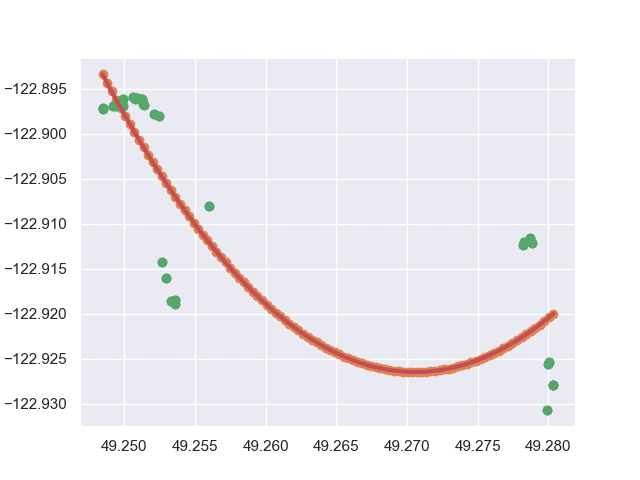
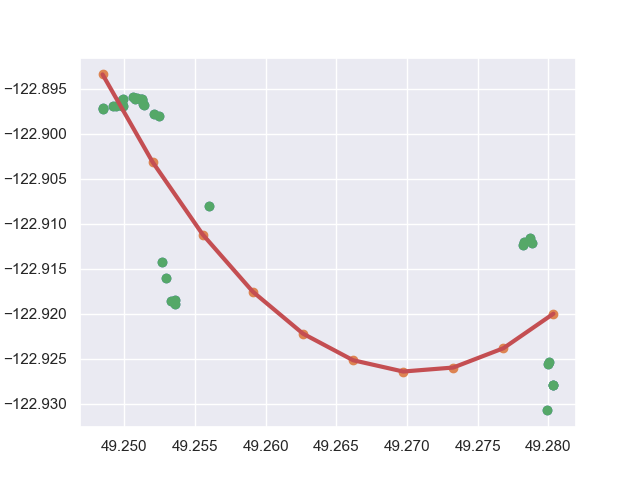
commiting

diff --git a/_map.html b/_map.html
@@ -1,0 +1,39 @@
+<head>
+    <script src="https://cdnjs.cloudflare.com/ajax/libs/leaflet/0.7.3/leaflet.js"></script>
+    <link rel="stylesheet" href="https://cdnjs.cloudflare.com/ajax/libs/leaflet/0.7.3/leaflet.css" />
+  <style>
+    #map0ffcd67947804cf880f455175a8f32a5 {
+      height:100%;
+    }
+  </style> 
+</head>
+<body>
+  <div id="map0ffcd67947804cf880f455175a8f32a5"></div>
+<script text="text/javascript">
+var map = L.map('map0ffcd67947804cf880f455175a8f32a5');
+L.tileLayer(
+  "http://{s}.tile.openstreetmap.org/{z}/{x}/{y}.png",
+  {maxZoom:19, attribution: '<a href="https://github.com/jwass/mplleaflet">mplleaflet</a> | Map data (c) <a href="http://openstreetmap.org">OpenStreetMap</a> contributors'}).addTo(map);
+var gjData = {"type": "FeatureCollection", "features": [{"type": "Feature", "geometry": {"type": "LineString", "coordinates": [[-123.0047336, 49.266707899557034], [-123.0039381, 49.251221600152384], [-123.00038899999998, 49.2488066], [-123.0001406, 49.2537233], [-123.00010870000001, 49.2518042], [-122.9994277, 49.2497468], [-122.99699299999999, 49.2808343], [-122.98618229999998, 49.23015060006971], [-122.96966840000002, 49.21918449998558], [-122.95731200000002, 49.211023000031076], [-122.95167520000001, 49.21867770008941], [-122.9385781, 49.2150615], [-122.9282604, 49.21907], [-122.9281568, 49.2198196], [-122.9190481, 49.2789791], [-122.90624720000001, 49.231409899999996], [-122.896771, 49.2497307], [-122.8961068, 49.250189299999995], [-122.8958192, 49.2505823]]}, "properties": {"color": "#C44E52", "weight": 5.0, "opacity": 1}}, {"type": "Feature", "geometry": {"type": "Point", "coordinates": [-122.95731200000002, 49.211023]}, "properties": {"html": "<svg width=\"11px\" height=\"11px\" viewBox=\"-5.5 -5.5 11.0 11.0\" xmlns=\"http://www.w3.org/2000/svg\" version=\"1.1\">  <path d=\"M 0.0 4.166666666666667 C 1.105012916666667 4.166666666666667 2.1649161282702227 3.727640381617674 2.9462782549439486 2.9462782549439486 C 3.727640381617674 2.1649161282702227 4.166666666666667 1.105012916666667 4.166666666666667 -0.0 C 4.166666666666667 -1.105012916666667 3.727640381617674 -2.1649161282702227 2.9462782549439486 -2.9462782549439486 C 2.1649161282702227 -3.727640381617674 1.105012916666667 -4.166666666666667 0.0 -4.166666666666667 C -1.105012916666667 -4.166666666666667 -2.1649161282702227 -3.727640381617674 -2.9462782549439486 -2.9462782549439486 C -3.727640381617674 -2.1649161282702227 -4.166666666666667 -1.105012916666667 -4.166666666666667 -0.0 C -4.166666666666667 1.105012916666667 -3.727640381617674 2.1649161282702227 -2.9462782549439486 2.9462782549439486 C -2.1649161282702227 3.727640381617674 -1.105012916666667 4.166666666666667 0.0 4.166666666666667 Z\" stroke=\"#4C72B0\" stroke-width=\"1.0\" stroke-opacity=\"None\" fill=\"#4C72B0\" fill-opacity=\"None\" /></svg>", "anchor_x": 5.5, "anchor_y": 5.5}}, {"type": "Feature", "geometry": {"type": "Point", "coordinates": [-122.8961068, 49.250189299999995]}, "properties": {"html": "<svg width=\"11px\" height=\"11px\" viewBox=\"-5.5 -5.5 11.0 11.0\" xmlns=\"http://www.w3.org/2000/svg\" version=\"1.1\">  <path d=\"M 0.0 4.166666666666667 C 1.105012916666667 4.166666666666667 2.1649161282702227 3.727640381617674 2.9462782549439486 2.9462782549439486 C 3.727640381617674 2.1649161282702227 4.166666666666667 1.105012916666667 4.166666666666667 -0.0 C 4.166666666666667 -1.105012916666667 3.727640381617674 -2.1649161282702227 2.9462782549439486 -2.9462782549439486 C 2.1649161282702227 -3.727640381617674 1.105012916666667 -4.166666666666667 0.0 -4.166666666666667 C -1.105012916666667 -4.166666666666667 -2.1649161282702227 -3.727640381617674 -2.9462782549439486 -2.9462782549439486 C -3.727640381617674 -2.1649161282702227 -4.166666666666667 -1.105012916666667 -4.166666666666667 -0.0 C -4.166666666666667 1.105012916666667 -3.727640381617674 2.1649161282702227 -2.9462782549439486 2.9462782549439486 C -2.1649161282702227 3.727640381617674 -1.105012916666667 4.166666666666667 0.0 4.166666666666667 Z\" stroke=\"#4C72B0\" stroke-width=\"1.0\" stroke-opacity=\"None\" fill=\"#4C72B0\" fill-opacity=\"None\" /></svg>", "anchor_x": 5.5, "anchor_y": 5.5}}, {"type": "Feature", "geometry": {"type": "Point", "coordinates": [-122.9190481, 49.2789791]}, "properties": {"html": "<svg width=\"11px\" height=\"11px\" viewBox=\"-5.5 -5.5 11.0 11.0\" xmlns=\"http://www.w3.org/2000/svg\" version=\"1.1\">  <path d=\"M 0.0 4.166666666666667 C 1.105012916666667 4.166666666666667 2.1649161282702227 3.727640381617674 2.9462782549439486 2.9462782549439486 C 3.727640381617674 2.1649161282702227 4.166666666666667 1.105012916666667 4.166666666666667 -0.0 C 4.166666666666667 -1.105012916666667 3.727640381617674 -2.1649161282702227 2.9462782549439486 -2.9462782549439486 C 2.1649161282702227 -3.727640381617674 1.105012916666667 -4.166666666666667 0.0 -4.166666666666667 C -1.105012916666667 -4.166666666666667 -2.1649161282702227 -3.727640381617674 -2.9462782549439486 -2.9462782549439486 C -3.727640381617674 -2.1649161282702227 -4.166666666666667 -1.105012916666667 -4.166666666666667 -0.0 C -4.166666666666667 1.105012916666667 -3.727640381617674 2.1649161282702227 -2.9462782549439486 2.9462782549439486 C -2.1649161282702227 3.727640381617674 -1.105012916666667 4.166666666666667 0.0 4.166666666666667 Z\" stroke=\"#4C72B0\" stroke-width=\"1.0\" stroke-opacity=\"None\" fill=\"#4C72B0\" fill-opacity=\"None\" /></svg>", "anchor_x": 5.5, "anchor_y": 5.5}}, {"type": "Feature", "geometry": {"type": "Point", "coordinates": [-122.95731200000002, 49.211023]}, "properties": {"html": "<svg width=\"11px\" height=\"11px\" viewBox=\"-5.5 -5.5 11.0 11.0\" xmlns=\"http://www.w3.org/2000/svg\" version=\"1.1\">  <path d=\"M 0.0 4.166666666666667 C 1.105012916666667 4.166666666666667 2.1649161282702227 3.727640381617674 2.9462782549439486 2.9462782549439486 C 3.727640381617674 2.1649161282702227 4.166666666666667 1.105012916666667 4.166666666666667 -0.0 C 4.166666666666667 -1.105012916666667 3.727640381617674 -2.1649161282702227 2.9462782549439486 -2.9462782549439486 C 2.1649161282702227 -3.727640381617674 1.105012916666667 -4.166666666666667 0.0 -4.166666666666667 C -1.105012916666667 -4.166666666666667 -2.1649161282702227 -3.727640381617674 -2.9462782549439486 -2.9462782549439486 C -3.727640381617674 -2.1649161282702227 -4.166666666666667 -1.105012916666667 -4.166666666666667 -0.0 C -4.166666666666667 1.105012916666667 -3.727640381617674 2.1649161282702227 -2.9462782549439486 2.9462782549439486 C -2.1649161282702227 3.727640381617674 -1.105012916666667 4.166666666666667 0.0 4.166666666666667 Z\" stroke=\"#DD8452\" stroke-width=\"1.0\" stroke-opacity=\"None\" fill=\"#DD8452\" fill-opacity=\"None\" /></svg>", "anchor_x": 5.5, "anchor_y": 5.5}}, {"type": "Feature", "geometry": {"type": "Point", "coordinates": [-122.9385781, 49.2150615]}, "properties": {"html": "<svg width=\"11px\" height=\"11px\" viewBox=\"-5.5 -5.5 11.0 11.0\" xmlns=\"http://www.w3.org/2000/svg\" version=\"1.1\">  <path d=\"M 0.0 4.166666666666667 C 1.105012916666667 4.166666666666667 2.1649161282702227 3.727640381617674 2.9462782549439486 2.9462782549439486 C 3.727640381617674 2.1649161282702227 4.166666666666667 1.105012916666667 4.166666666666667 -0.0 C 4.166666666666667 -1.105012916666667 3.727640381617674 -2.1649161282702227 2.9462782549439486 -2.9462782549439486 C 2.1649161282702227 -3.727640381617674 1.105012916666667 -4.166666666666667 0.0 -4.166666666666667 C -1.105012916666667 -4.166666666666667 -2.1649161282702227 -3.727640381617674 -2.9462782549439486 -2.9462782549439486 C -3.727640381617674 -2.1649161282702227 -4.166666666666667 -1.105012916666667 -4.166666666666667 -0.0 C -4.166666666666667 1.105012916666667 -3.727640381617674 2.1649161282702227 -2.9462782549439486 2.9462782549439486 C -2.1649161282702227 3.727640381617674 -1.105012916666667 4.166666666666667 0.0 4.166666666666667 Z\" stroke=\"#DD8452\" stroke-width=\"1.0\" stroke-opacity=\"None\" fill=\"#DD8452\" fill-opacity=\"None\" /></svg>", "anchor_x": 5.5, "anchor_y": 5.5}}, {"type": "Feature", "geometry": {"type": "Point", "coordinates": [-122.95167520000001, 49.2186777]}, "properties": {"html": "<svg width=\"11px\" height=\"11px\" viewBox=\"-5.5 -5.5 11.0 11.0\" xmlns=\"http://www.w3.org/2000/svg\" version=\"1.1\">  <path d=\"M 0.0 4.166666666666667 C 1.105012916666667 4.166666666666667 2.1649161282702227 3.727640381617674 2.9462782549439486 2.9462782549439486 C 3.727640381617674 2.1649161282702227 4.166666666666667 1.105012916666667 4.166666666666667 -0.0 C 4.166666666666667 -1.105012916666667 3.727640381617674 -2.1649161282702227 2.9462782549439486 -2.9462782549439486 C 2.1649161282702227 -3.727640381617674 1.105012916666667 -4.166666666666667 0.0 -4.166666666666667 C -1.105012916666667 -4.166666666666667 -2.1649161282702227 -3.727640381617674 -2.9462782549439486 -2.9462782549439486 C -3.727640381617674 -2.1649161282702227 -4.166666666666667 -1.105012916666667 -4.166666666666667 -0.0 C -4.166666666666667 1.105012916666667 -3.727640381617674 2.1649161282702227 -2.9462782549439486 2.9462782549439486 C -2.1649161282702227 3.727640381617674 -1.105012916666667 4.166666666666667 0.0 4.166666666666667 Z\" stroke=\"#DD8452\" stroke-width=\"1.0\" stroke-opacity=\"None\" fill=\"#DD8452\" fill-opacity=\"None\" /></svg>", "anchor_x": 5.5, "anchor_y": 5.5}}, {"type": "Feature", "geometry": {"type": "Point", "coordinates": [-122.9282604, 49.21907]}, "properties": {"html": "<svg width=\"11px\" height=\"11px\" viewBox=\"-5.5 -5.5 11.0 11.0\" xmlns=\"http://www.w3.org/2000/svg\" version=\"1.1\">  <path d=\"M 0.0 4.166666666666667 C 1.105012916666667 4.166666666666667 2.1649161282702227 3.727640381617674 2.9462782549439486 2.9462782549439486 C 3.727640381617674 2.1649161282702227 4.166666666666667 1.105012916666667 4.166666666666667 -0.0 C 4.166666666666667 -1.105012916666667 3.727640381617674 -2.1649161282702227 2.9462782549439486 -2.9462782549439486 C 2.1649161282702227 -3.727640381617674 1.105012916666667 -4.166666666666667 0.0 -4.166666666666667 C -1.105012916666667 -4.166666666666667 -2.1649161282702227 -3.727640381617674 -2.9462782549439486 -2.9462782549439486 C -3.727640381617674 -2.1649161282702227 -4.166666666666667 -1.105012916666667 -4.166666666666667 -0.0 C -4.166666666666667 1.105012916666667 -3.727640381617674 2.1649161282702227 -2.9462782549439486 2.9462782549439486 C -2.1649161282702227 3.727640381617674 -1.105012916666667 4.166666666666667 0.0 4.166666666666667 Z\" stroke=\"#DD8452\" stroke-width=\"1.0\" stroke-opacity=\"None\" fill=\"#DD8452\" fill-opacity=\"None\" /></svg>", "anchor_x": 5.5, "anchor_y": 5.5}}, {"type": "Feature", "geometry": {"type": "Point", "coordinates": [-122.96966840000002, 49.2191845]}, "properties": {"html": "<svg width=\"11px\" height=\"11px\" viewBox=\"-5.5 -5.5 11.0 11.0\" xmlns=\"http://www.w3.org/2000/svg\" version=\"1.1\">  <path d=\"M 0.0 4.166666666666667 C 1.105012916666667 4.166666666666667 2.1649161282702227 3.727640381617674 2.9462782549439486 2.9462782549439486 C 3.727640381617674 2.1649161282702227 4.166666666666667 1.105012916666667 4.166666666666667 -0.0 C 4.166666666666667 -1.105012916666667 3.727640381617674 -2.1649161282702227 2.9462782549439486 -2.9462782549439486 C 2.1649161282702227 -3.727640381617674 1.105012916666667 -4.166666666666667 0.0 -4.166666666666667 C -1.105012916666667 -4.166666666666667 -2.1649161282702227 -3.727640381617674 -2.9462782549439486 -2.9462782549439486 C -3.727640381617674 -2.1649161282702227 -4.166666666666667 -1.105012916666667 -4.166666666666667 -0.0 C -4.166666666666667 1.105012916666667 -3.727640381617674 2.1649161282702227 -2.9462782549439486 2.9462782549439486 C -2.1649161282702227 3.727640381617674 -1.105012916666667 4.166666666666667 0.0 4.166666666666667 Z\" stroke=\"#DD8452\" stroke-width=\"1.0\" stroke-opacity=\"None\" fill=\"#DD8452\" fill-opacity=\"None\" /></svg>", "anchor_x": 5.5, "anchor_y": 5.5}}, {"type": "Feature", "geometry": {"type": "Point", "coordinates": [-122.9281568, 49.2198196]}, "properties": {"html": "<svg width=\"11px\" height=\"11px\" viewBox=\"-5.5 -5.5 11.0 11.0\" xmlns=\"http://www.w3.org/2000/svg\" version=\"1.1\">  <path d=\"M 0.0 4.166666666666667 C 1.105012916666667 4.166666666666667 2.1649161282702227 3.727640381617674 2.9462782549439486 2.9462782549439486 C 3.727640381617674 2.1649161282702227 4.166666666666667 1.105012916666667 4.166666666666667 -0.0 C 4.166666666666667 -1.105012916666667 3.727640381617674 -2.1649161282702227 2.9462782549439486 -2.9462782549439486 C 2.1649161282702227 -3.727640381617674 1.105012916666667 -4.166666666666667 0.0 -4.166666666666667 C -1.105012916666667 -4.166666666666667 -2.1649161282702227 -3.727640381617674 -2.9462782549439486 -2.9462782549439486 C -3.727640381617674 -2.1649161282702227 -4.166666666666667 -1.105012916666667 -4.166666666666667 -0.0 C -4.166666666666667 1.105012916666667 -3.727640381617674 2.1649161282702227 -2.9462782549439486 2.9462782549439486 C -2.1649161282702227 3.727640381617674 -1.105012916666667 4.166666666666667 0.0 4.166666666666667 Z\" stroke=\"#DD8452\" stroke-width=\"1.0\" stroke-opacity=\"None\" fill=\"#DD8452\" fill-opacity=\"None\" /></svg>", "anchor_x": 5.5, "anchor_y": 5.5}}, {"type": "Feature", "geometry": {"type": "Point", "coordinates": [-122.98618229999998, 49.2301506]}, "properties": {"html": "<svg width=\"11px\" height=\"11px\" viewBox=\"-5.5 -5.5 11.0 11.0\" xmlns=\"http://www.w3.org/2000/svg\" version=\"1.1\">  <path d=\"M 0.0 4.166666666666667 C 1.105012916666667 4.166666666666667 2.1649161282702227 3.727640381617674 2.9462782549439486 2.9462782549439486 C 3.727640381617674 2.1649161282702227 4.166666666666667 1.105012916666667 4.166666666666667 -0.0 C 4.166666666666667 -1.105012916666667 3.727640381617674 -2.1649161282702227 2.9462782549439486 -2.9462782549439486 C 2.1649161282702227 -3.727640381617674 1.105012916666667 -4.166666666666667 0.0 -4.166666666666667 C -1.105012916666667 -4.166666666666667 -2.1649161282702227 -3.727640381617674 -2.9462782549439486 -2.9462782549439486 C -3.727640381617674 -2.1649161282702227 -4.166666666666667 -1.105012916666667 -4.166666666666667 -0.0 C -4.166666666666667 1.105012916666667 -3.727640381617674 2.1649161282702227 -2.9462782549439486 2.9462782549439486 C -2.1649161282702227 3.727640381617674 -1.105012916666667 4.166666666666667 0.0 4.166666666666667 Z\" stroke=\"#DD8452\" stroke-width=\"1.0\" stroke-opacity=\"None\" fill=\"#DD8452\" fill-opacity=\"None\" /></svg>", "anchor_x": 5.5, "anchor_y": 5.5}}, {"type": "Feature", "geometry": {"type": "Point", "coordinates": [-122.90624720000001, 49.231409899999996]}, "properties": {"html": "<svg width=\"11px\" height=\"11px\" viewBox=\"-5.5 -5.5 11.0 11.0\" xmlns=\"http://www.w3.org/2000/svg\" version=\"1.1\">  <path d=\"M 0.0 4.166666666666667 C 1.105012916666667 4.166666666666667 2.1649161282702227 3.727640381617674 2.9462782549439486 2.9462782549439486 C 3.727640381617674 2.1649161282702227 4.166666666666667 1.105012916666667 4.166666666666667 -0.0 C 4.166666666666667 -1.105012916666667 3.727640381617674 -2.1649161282702227 2.9462782549439486 -2.9462782549439486 C 2.1649161282702227 -3.727640381617674 1.105012916666667 -4.166666666666667 0.0 -4.166666666666667 C -1.105012916666667 -4.166666666666667 -2.1649161282702227 -3.727640381617674 -2.9462782549439486 -2.9462782549439486 C -3.727640381617674 -2.1649161282702227 -4.166666666666667 -1.105012916666667 -4.166666666666667 -0.0 C -4.166666666666667 1.105012916666667 -3.727640381617674 2.1649161282702227 -2.9462782549439486 2.9462782549439486 C -2.1649161282702227 3.727640381617674 -1.105012916666667 4.166666666666667 0.0 4.166666666666667 Z\" stroke=\"#DD8452\" stroke-width=\"1.0\" stroke-opacity=\"None\" fill=\"#DD8452\" fill-opacity=\"None\" /></svg>", "anchor_x": 5.5, "anchor_y": 5.5}}, {"type": "Feature", "geometry": {"type": "Point", "coordinates": [-123.00038899999998, 49.2488066]}, "properties": {"html": "<svg width=\"11px\" height=\"11px\" viewBox=\"-5.5 -5.5 11.0 11.0\" xmlns=\"http://www.w3.org/2000/svg\" version=\"1.1\">  <path d=\"M 0.0 4.166666666666667 C 1.105012916666667 4.166666666666667 2.1649161282702227 3.727640381617674 2.9462782549439486 2.9462782549439486 C 3.727640381617674 2.1649161282702227 4.166666666666667 1.105012916666667 4.166666666666667 -0.0 C 4.166666666666667 -1.105012916666667 3.727640381617674 -2.1649161282702227 2.9462782549439486 -2.9462782549439486 C 2.1649161282702227 -3.727640381617674 1.105012916666667 -4.166666666666667 0.0 -4.166666666666667 C -1.105012916666667 -4.166666666666667 -2.1649161282702227 -3.727640381617674 -2.9462782549439486 -2.9462782549439486 C -3.727640381617674 -2.1649161282702227 -4.166666666666667 -1.105012916666667 -4.166666666666667 -0.0 C -4.166666666666667 1.105012916666667 -3.727640381617674 2.1649161282702227 -2.9462782549439486 2.9462782549439486 C -2.1649161282702227 3.727640381617674 -1.105012916666667 4.166666666666667 0.0 4.166666666666667 Z\" stroke=\"#DD8452\" stroke-width=\"1.0\" stroke-opacity=\"None\" fill=\"#DD8452\" fill-opacity=\"None\" /></svg>", "anchor_x": 5.5, "anchor_y": 5.5}}, {"type": "Feature", "geometry": {"type": "Point", "coordinates": [-122.896771, 49.2497307]}, "properties": {"html": "<svg width=\"11px\" height=\"11px\" viewBox=\"-5.5 -5.5 11.0 11.0\" xmlns=\"http://www.w3.org/2000/svg\" version=\"1.1\">  <path d=\"M 0.0 4.166666666666667 C 1.105012916666667 4.166666666666667 2.1649161282702227 3.727640381617674 2.9462782549439486 2.9462782549439486 C 3.727640381617674 2.1649161282702227 4.166666666666667 1.105012916666667 4.166666666666667 -0.0 C 4.166666666666667 -1.105012916666667 3.727640381617674 -2.1649161282702227 2.9462782549439486 -2.9462782549439486 C 2.1649161282702227 -3.727640381617674 1.105012916666667 -4.166666666666667 0.0 -4.166666666666667 C -1.105012916666667 -4.166666666666667 -2.1649161282702227 -3.727640381617674 -2.9462782549439486 -2.9462782549439486 C -3.727640381617674 -2.1649161282702227 -4.166666666666667 -1.105012916666667 -4.166666666666667 -0.0 C -4.166666666666667 1.105012916666667 -3.727640381617674 2.1649161282702227 -2.9462782549439486 2.9462782549439486 C -2.1649161282702227 3.727640381617674 -1.105012916666667 4.166666666666667 0.0 4.166666666666667 Z\" stroke=\"#DD8452\" stroke-width=\"1.0\" stroke-opacity=\"None\" fill=\"#DD8452\" fill-opacity=\"None\" /></svg>", "anchor_x": 5.5, "anchor_y": 5.5}}, {"type": "Feature", "geometry": {"type": "Point", "coordinates": [-122.9994277, 49.2497468]}, "properties": {"html": "<svg width=\"11px\" height=\"11px\" viewBox=\"-5.5 -5.5 11.0 11.0\" xmlns=\"http://www.w3.org/2000/svg\" version=\"1.1\">  <path d=\"M 0.0 4.166666666666667 C 1.105012916666667 4.166666666666667 2.1649161282702227 3.727640381617674 2.9462782549439486 2.9462782549439486 C 3.727640381617674 2.1649161282702227 4.166666666666667 1.105012916666667 4.166666666666667 -0.0 C 4.166666666666667 -1.105012916666667 3.727640381617674 -2.1649161282702227 2.9462782549439486 -2.9462782549439486 C 2.1649161282702227 -3.727640381617674 1.105012916666667 -4.166666666666667 0.0 -4.166666666666667 C -1.105012916666667 -4.166666666666667 -2.1649161282702227 -3.727640381617674 -2.9462782549439486 -2.9462782549439486 C -3.727640381617674 -2.1649161282702227 -4.166666666666667 -1.105012916666667 -4.166666666666667 -0.0 C -4.166666666666667 1.105012916666667 -3.727640381617674 2.1649161282702227 -2.9462782549439486 2.9462782549439486 C -2.1649161282702227 3.727640381617674 -1.105012916666667 4.166666666666667 0.0 4.166666666666667 Z\" stroke=\"#DD8452\" stroke-width=\"1.0\" stroke-opacity=\"None\" fill=\"#DD8452\" fill-opacity=\"None\" /></svg>", "anchor_x": 5.5, "anchor_y": 5.5}}, {"type": "Feature", "geometry": {"type": "Point", "coordinates": [-122.8961068, 49.250189299999995]}, "properties": {"html": "<svg width=\"11px\" height=\"11px\" viewBox=\"-5.5 -5.5 11.0 11.0\" xmlns=\"http://www.w3.org/2000/svg\" version=\"1.1\">  <path d=\"M 0.0 4.166666666666667 C 1.105012916666667 4.166666666666667 2.1649161282702227 3.727640381617674 2.9462782549439486 2.9462782549439486 C 3.727640381617674 2.1649161282702227 4.166666666666667 1.105012916666667 4.166666666666667 -0.0 C 4.166666666666667 -1.105012916666667 3.727640381617674 -2.1649161282702227 2.9462782549439486 -2.9462782549439486 C 2.1649161282702227 -3.727640381617674 1.105012916666667 -4.166666666666667 0.0 -4.166666666666667 C -1.105012916666667 -4.166666666666667 -2.1649161282702227 -3.727640381617674 -2.9462782549439486 -2.9462782549439486 C -3.727640381617674 -2.1649161282702227 -4.166666666666667 -1.105012916666667 -4.166666666666667 -0.0 C -4.166666666666667 1.105012916666667 -3.727640381617674 2.1649161282702227 -2.9462782549439486 2.9462782549439486 C -2.1649161282702227 3.727640381617674 -1.105012916666667 4.166666666666667 0.0 4.166666666666667 Z\" stroke=\"#DD8452\" stroke-width=\"1.0\" stroke-opacity=\"None\" fill=\"#DD8452\" fill-opacity=\"None\" /></svg>", "anchor_x": 5.5, "anchor_y": 5.5}}, {"type": "Feature", "geometry": {"type": "Point", "coordinates": [-122.8958192, 49.2505823]}, "properties": {"html": "<svg width=\"11px\" height=\"11px\" viewBox=\"-5.5 -5.5 11.0 11.0\" xmlns=\"http://www.w3.org/2000/svg\" version=\"1.1\">  <path d=\"M 0.0 4.166666666666667 C 1.105012916666667 4.166666666666667 2.1649161282702227 3.727640381617674 2.9462782549439486 2.9462782549439486 C 3.727640381617674 2.1649161282702227 4.166666666666667 1.105012916666667 4.166666666666667 -0.0 C 4.166666666666667 -1.105012916666667 3.727640381617674 -2.1649161282702227 2.9462782549439486 -2.9462782549439486 C 2.1649161282702227 -3.727640381617674 1.105012916666667 -4.166666666666667 0.0 -4.166666666666667 C -1.105012916666667 -4.166666666666667 -2.1649161282702227 -3.727640381617674 -2.9462782549439486 -2.9462782549439486 C -3.727640381617674 -2.1649161282702227 -4.166666666666667 -1.105012916666667 -4.166666666666667 -0.0 C -4.166666666666667 1.105012916666667 -3.727640381617674 2.1649161282702227 -2.9462782549439486 2.9462782549439486 C -2.1649161282702227 3.727640381617674 -1.105012916666667 4.166666666666667 0.0 4.166666666666667 Z\" stroke=\"#DD8452\" stroke-width=\"1.0\" stroke-opacity=\"None\" fill=\"#DD8452\" fill-opacity=\"None\" /></svg>", "anchor_x": 5.5, "anchor_y": 5.5}}, {"type": "Feature", "geometry": {"type": "Point", "coordinates": [-123.0039381, 49.2512216]}, "properties": {"html": "<svg width=\"11px\" height=\"11px\" viewBox=\"-5.5 -5.5 11.0 11.0\" xmlns=\"http://www.w3.org/2000/svg\" version=\"1.1\">  <path d=\"M 0.0 4.166666666666667 C 1.105012916666667 4.166666666666667 2.1649161282702227 3.727640381617674 2.9462782549439486 2.9462782549439486 C 3.727640381617674 2.1649161282702227 4.166666666666667 1.105012916666667 4.166666666666667 -0.0 C 4.166666666666667 -1.105012916666667 3.727640381617674 -2.1649161282702227 2.9462782549439486 -2.9462782549439486 C 2.1649161282702227 -3.727640381617674 1.105012916666667 -4.166666666666667 0.0 -4.166666666666667 C -1.105012916666667 -4.166666666666667 -2.1649161282702227 -3.727640381617674 -2.9462782549439486 -2.9462782549439486 C -3.727640381617674 -2.1649161282702227 -4.166666666666667 -1.105012916666667 -4.166666666666667 -0.0 C -4.166666666666667 1.105012916666667 -3.727640381617674 2.1649161282702227 -2.9462782549439486 2.9462782549439486 C -2.1649161282702227 3.727640381617674 -1.105012916666667 4.166666666666667 0.0 4.166666666666667 Z\" stroke=\"#DD8452\" stroke-width=\"1.0\" stroke-opacity=\"None\" fill=\"#DD8452\" fill-opacity=\"None\" /></svg>", "anchor_x": 5.5, "anchor_y": 5.5}}, {"type": "Feature", "geometry": {"type": "Point", "coordinates": [-123.00010870000001, 49.2518042]}, "properties": {"html": "<svg width=\"11px\" height=\"11px\" viewBox=\"-5.5 -5.5 11.0 11.0\" xmlns=\"http://www.w3.org/2000/svg\" version=\"1.1\">  <path d=\"M 0.0 4.166666666666667 C 1.105012916666667 4.166666666666667 2.1649161282702227 3.727640381617674 2.9462782549439486 2.9462782549439486 C 3.727640381617674 2.1649161282702227 4.166666666666667 1.105012916666667 4.166666666666667 -0.0 C 4.166666666666667 -1.105012916666667 3.727640381617674 -2.1649161282702227 2.9462782549439486 -2.9462782549439486 C 2.1649161282702227 -3.727640381617674 1.105012916666667 -4.166666666666667 0.0 -4.166666666666667 C -1.105012916666667 -4.166666666666667 -2.1649161282702227 -3.727640381617674 -2.9462782549439486 -2.9462782549439486 C -3.727640381617674 -2.1649161282702227 -4.166666666666667 -1.105012916666667 -4.166666666666667 -0.0 C -4.166666666666667 1.105012916666667 -3.727640381617674 2.1649161282702227 -2.9462782549439486 2.9462782549439486 C -2.1649161282702227 3.727640381617674 -1.105012916666667 4.166666666666667 0.0 4.166666666666667 Z\" stroke=\"#DD8452\" stroke-width=\"1.0\" stroke-opacity=\"None\" fill=\"#DD8452\" fill-opacity=\"None\" /></svg>", "anchor_x": 5.5, "anchor_y": 5.5}}, {"type": "Feature", "geometry": {"type": "Point", "coordinates": [-123.0001406, 49.2537233]}, "properties": {"html": "<svg width=\"11px\" height=\"11px\" viewBox=\"-5.5 -5.5 11.0 11.0\" xmlns=\"http://www.w3.org/2000/svg\" version=\"1.1\">  <path d=\"M 0.0 4.166666666666667 C 1.105012916666667 4.166666666666667 2.1649161282702227 3.727640381617674 2.9462782549439486 2.9462782549439486 C 3.727640381617674 2.1649161282702227 4.166666666666667 1.105012916666667 4.166666666666667 -0.0 C 4.166666666666667 -1.105012916666667 3.727640381617674 -2.1649161282702227 2.9462782549439486 -2.9462782549439486 C 2.1649161282702227 -3.727640381617674 1.105012916666667 -4.166666666666667 0.0 -4.166666666666667 C -1.105012916666667 -4.166666666666667 -2.1649161282702227 -3.727640381617674 -2.9462782549439486 -2.9462782549439486 C -3.727640381617674 -2.1649161282702227 -4.166666666666667 -1.105012916666667 -4.166666666666667 -0.0 C -4.166666666666667 1.105012916666667 -3.727640381617674 2.1649161282702227 -2.9462782549439486 2.9462782549439486 C -2.1649161282702227 3.727640381617674 -1.105012916666667 4.166666666666667 0.0 4.166666666666667 Z\" stroke=\"#DD8452\" stroke-width=\"1.0\" stroke-opacity=\"None\" fill=\"#DD8452\" fill-opacity=\"None\" /></svg>", "anchor_x": 5.5, "anchor_y": 5.5}}, {"type": "Feature", "geometry": {"type": "Point", "coordinates": [-123.0047336, 49.2667079]}, "properties": {"html": "<svg width=\"11px\" height=\"11px\" viewBox=\"-5.5 -5.5 11.0 11.0\" xmlns=\"http://www.w3.org/2000/svg\" version=\"1.1\">  <path d=\"M 0.0 4.166666666666667 C 1.105012916666667 4.166666666666667 2.1649161282702227 3.727640381617674 2.9462782549439486 2.9462782549439486 C 3.727640381617674 2.1649161282702227 4.166666666666667 1.105012916666667 4.166666666666667 -0.0 C 4.166666666666667 -1.105012916666667 3.727640381617674 -2.1649161282702227 2.9462782549439486 -2.9462782549439486 C 2.1649161282702227 -3.727640381617674 1.105012916666667 -4.166666666666667 0.0 -4.166666666666667 C -1.105012916666667 -4.166666666666667 -2.1649161282702227 -3.727640381617674 -2.9462782549439486 -2.9462782549439486 C -3.727640381617674 -2.1649161282702227 -4.166666666666667 -1.105012916666667 -4.166666666666667 -0.0 C -4.166666666666667 1.105012916666667 -3.727640381617674 2.1649161282702227 -2.9462782549439486 2.9462782549439486 C -2.1649161282702227 3.727640381617674 -1.105012916666667 4.166666666666667 0.0 4.166666666666667 Z\" stroke=\"#DD8452\" stroke-width=\"1.0\" stroke-opacity=\"None\" fill=\"#DD8452\" fill-opacity=\"None\" /></svg>", "anchor_x": 5.5, "anchor_y": 5.5}}, {"type": "Feature", "geometry": {"type": "Point", "coordinates": [-122.9190481, 49.2789791]}, "properties": {"html": "<svg width=\"11px\" height=\"11px\" viewBox=\"-5.5 -5.5 11.0 11.0\" xmlns=\"http://www.w3.org/2000/svg\" version=\"1.1\">  <path d=\"M 0.0 4.166666666666667 C 1.105012916666667 4.166666666666667 2.1649161282702227 3.727640381617674 2.9462782549439486 2.9462782549439486 C 3.727640381617674 2.1649161282702227 4.166666666666667 1.105012916666667 4.166666666666667 -0.0 C 4.166666666666667 -1.105012916666667 3.727640381617674 -2.1649161282702227 2.9462782549439486 -2.9462782549439486 C 2.1649161282702227 -3.727640381617674 1.105012916666667 -4.166666666666667 0.0 -4.166666666666667 C -1.105012916666667 -4.166666666666667 -2.1649161282702227 -3.727640381617674 -2.9462782549439486 -2.9462782549439486 C -3.727640381617674 -2.1649161282702227 -4.166666666666667 -1.105012916666667 -4.166666666666667 -0.0 C -4.166666666666667 1.105012916666667 -3.727640381617674 2.1649161282702227 -2.9462782549439486 2.9462782549439486 C -2.1649161282702227 3.727640381617674 -1.105012916666667 4.166666666666667 0.0 4.166666666666667 Z\" stroke=\"#DD8452\" stroke-width=\"1.0\" stroke-opacity=\"None\" fill=\"#DD8452\" fill-opacity=\"None\" /></svg>", "anchor_x": 5.5, "anchor_y": 5.5}}, {"type": "Feature", "geometry": {"type": "Point", "coordinates": [-122.99699299999999, 49.2808343]}, "properties": {"html": "<svg width=\"11px\" height=\"11px\" viewBox=\"-5.5 -5.5 11.0 11.0\" xmlns=\"http://www.w3.org/2000/svg\" version=\"1.1\">  <path d=\"M 0.0 4.166666666666667 C 1.105012916666667 4.166666666666667 2.1649161282702227 3.727640381617674 2.9462782549439486 2.9462782549439486 C 3.727640381617674 2.1649161282702227 4.166666666666667 1.105012916666667 4.166666666666667 -0.0 C 4.166666666666667 -1.105012916666667 3.727640381617674 -2.1649161282702227 2.9462782549439486 -2.9462782549439486 C 2.1649161282702227 -3.727640381617674 1.105012916666667 -4.166666666666667 0.0 -4.166666666666667 C -1.105012916666667 -4.166666666666667 -2.1649161282702227 -3.727640381617674 -2.9462782549439486 -2.9462782549439486 C -3.727640381617674 -2.1649161282702227 -4.166666666666667 -1.105012916666667 -4.166666666666667 -0.0 C -4.166666666666667 1.105012916666667 -3.727640381617674 2.1649161282702227 -2.9462782549439486 2.9462782549439486 C -2.1649161282702227 3.727640381617674 -1.105012916666667 4.166666666666667 0.0 4.166666666666667 Z\" stroke=\"#DD8452\" stroke-width=\"1.0\" stroke-opacity=\"None\" fill=\"#DD8452\" fill-opacity=\"None\" /></svg>", "anchor_x": 5.5, "anchor_y": 5.5}}]};
+
+if (gjData.features.length != 0) {
+  var gj = L.geoJson(gjData, {
+    style: function (feature) {
+      return feature.properties;
+    },
+    pointToLayer: function (feature, latlng) {
+      var icon = L.divIcon({'html': feature.properties.html, 
+        iconAnchor: [feature.properties.anchor_x, 
+                     feature.properties.anchor_y], 
+          className: 'empty'});  // What can I do about empty?
+      return L.marker(latlng, {icon: icon});
+    }
+  });
+  gj.addTo(map);
+  
+  map.fitBounds(gj.getBounds());
+} else {
+  map.setView([0, 0], 1);
+}
+</script>
+</body>

diff --git a/main.py b/main.py
@@ -2,6 +2,7 @@ from GPSPhoto import gpsphoto
 import pandas as pd
 import numpy as np
 import math
+import mplleaflet
 from geopy import Nominatim
 import matplotlib.pyplot as plt
 from statsmodels.nonparametric.smoothers_lowess import lowess
@@ -96,7 +97,7 @@ def main():
     )
 
     model.fit(np.stack([df['Latitude']], axis=1), df['Longitude'])
-    x = np.linspace(df['Latitude'].max(), df['Latitude'].min(),100, dtype=np.longfloat)
+    x = np.linspace(df['Latitude'].max(), df['Latitude'].min(),10, dtype=np.longfloat)
     y = model.predict(np.stack([x], axis=1))
 
     plt.scatter(x,y)
@@ -128,6 +129,7 @@ def main():
 
     all_possible_amenities['amenity'] = joined['amenity']
     all_possible_amenities['city'] = joined['city']
+    all_possible_amenities['address'] = joined['address']
 
     all_possible_amenities = all_possible_amenities.groupby(['lat','lon']).min()
 
@@ -136,7 +138,24 @@ def main():
 
     print()
     print("I suggest you could go ")
-    print(suggested)
+    
+    suggested = suggested.reset_index()
+    p = suggested.drop(columns=['lat','lon'])
+    print(p)
+
+    plt.figure(figsize=(8,6))
+    fig = plt.figure()
+    #x = suggested[suggested['amenity'] == 'atm']
+    #x = x.reset_index()
+    #plt.scatter(x['lon'],x['lat'])
+    
+    plt.scatter(suggested['lon'],suggested['lat'])
+
+    filtered = lowess(suggested['lat'],suggested['lon'], frac=0.2)
+    plt.plot(filtered[:, 0], filtered[:, 1],'r-', linewidth=5)
+
+    #plt.plot(x,y, 'r-', linewidth=3)
+    mplleaflet.show(fig=fig)
     #joined.to_csv('joined.csv', index=False)
 
 if __name__ == '__main__':

diff --git a/show_gmap.py b/show_gmap.py
@@ -1,0 +1,21 @@
+import matplotlib.pyplot as plt
+import mplleaflet
+import numpy as np
+import pandas as pd
+plt.clf()
+df = pd.read_csv('avg_latlon.csv')
+plt.figure(figsize=(8,6))
+fig = plt.figure()
+
+for row in df.head().itertuples():
+    plt.scatter(row.lon,row.lat)
+    plt.annotate(row.city,(row.lon,row.lat))
+
+plt.show()
+#plt.text(df['Longitude'] , df['Latitude'] ,'This text starts at point (2,4)')
+mplleaflet.show(fig=fig)
+
+
+#plt.scatter(2,3)
+#plt.annotate('hello',(2,3)) # this is the point to label # horizontal alignment can be left, right or center
+#plt.show()
